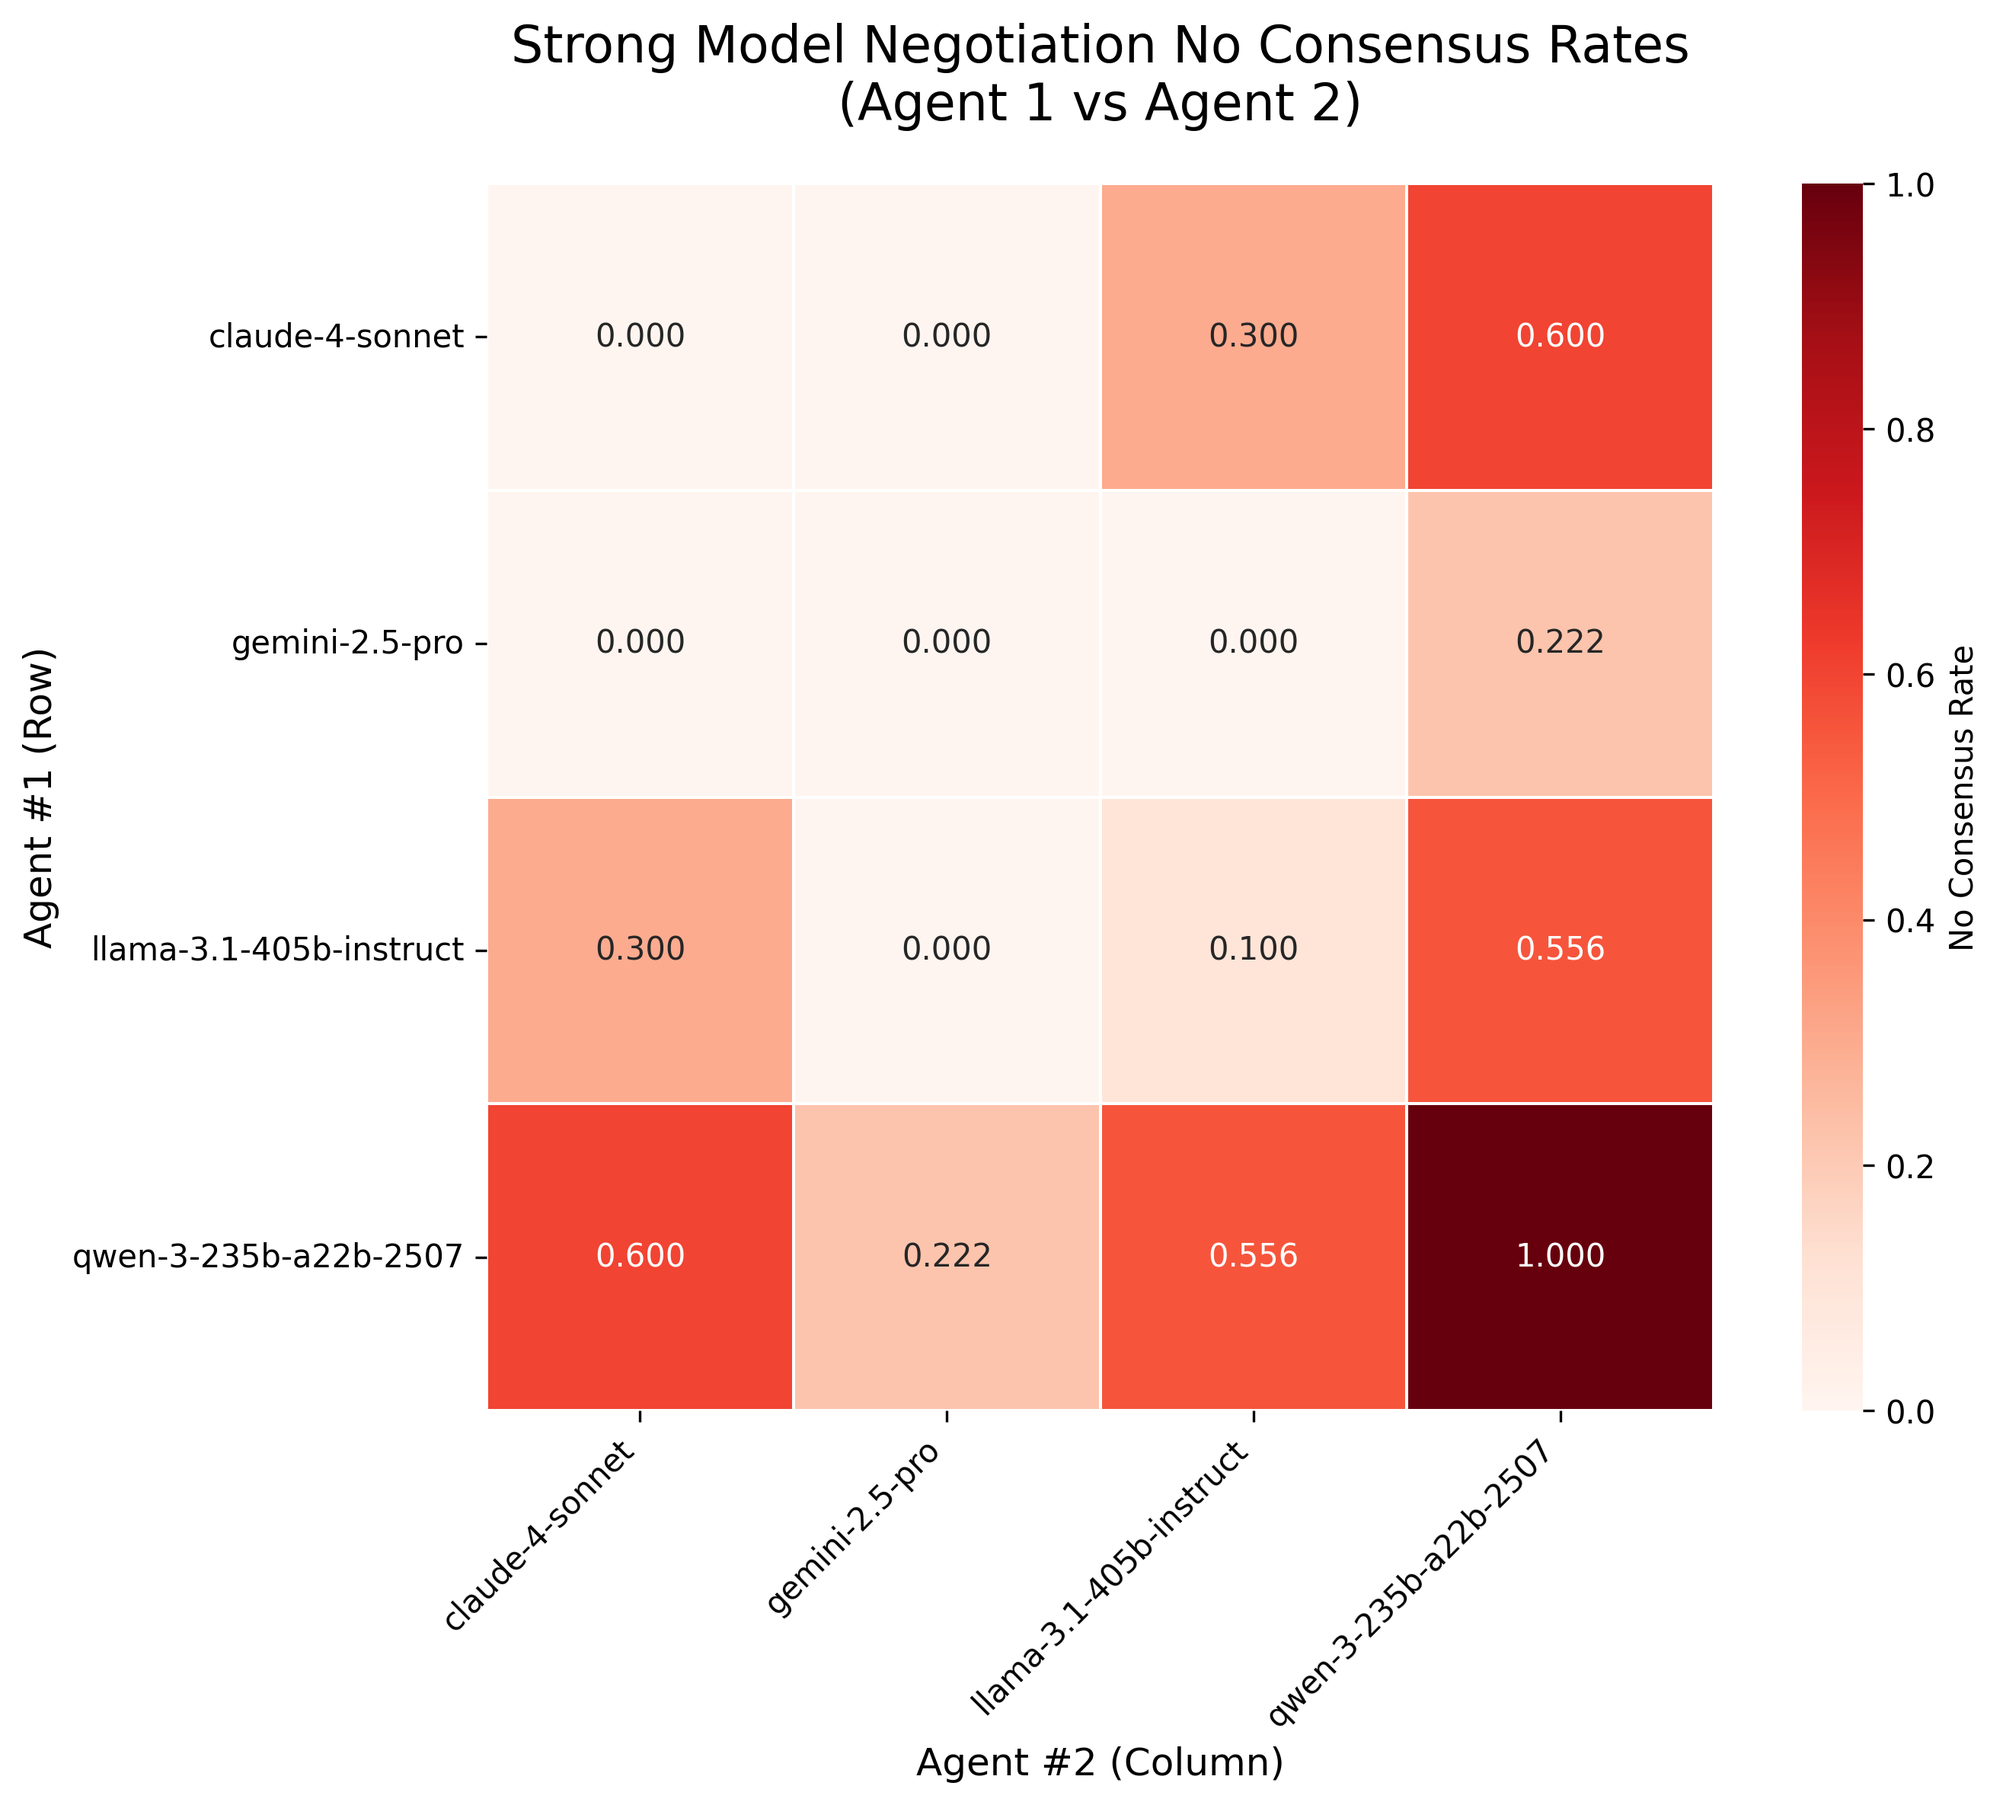
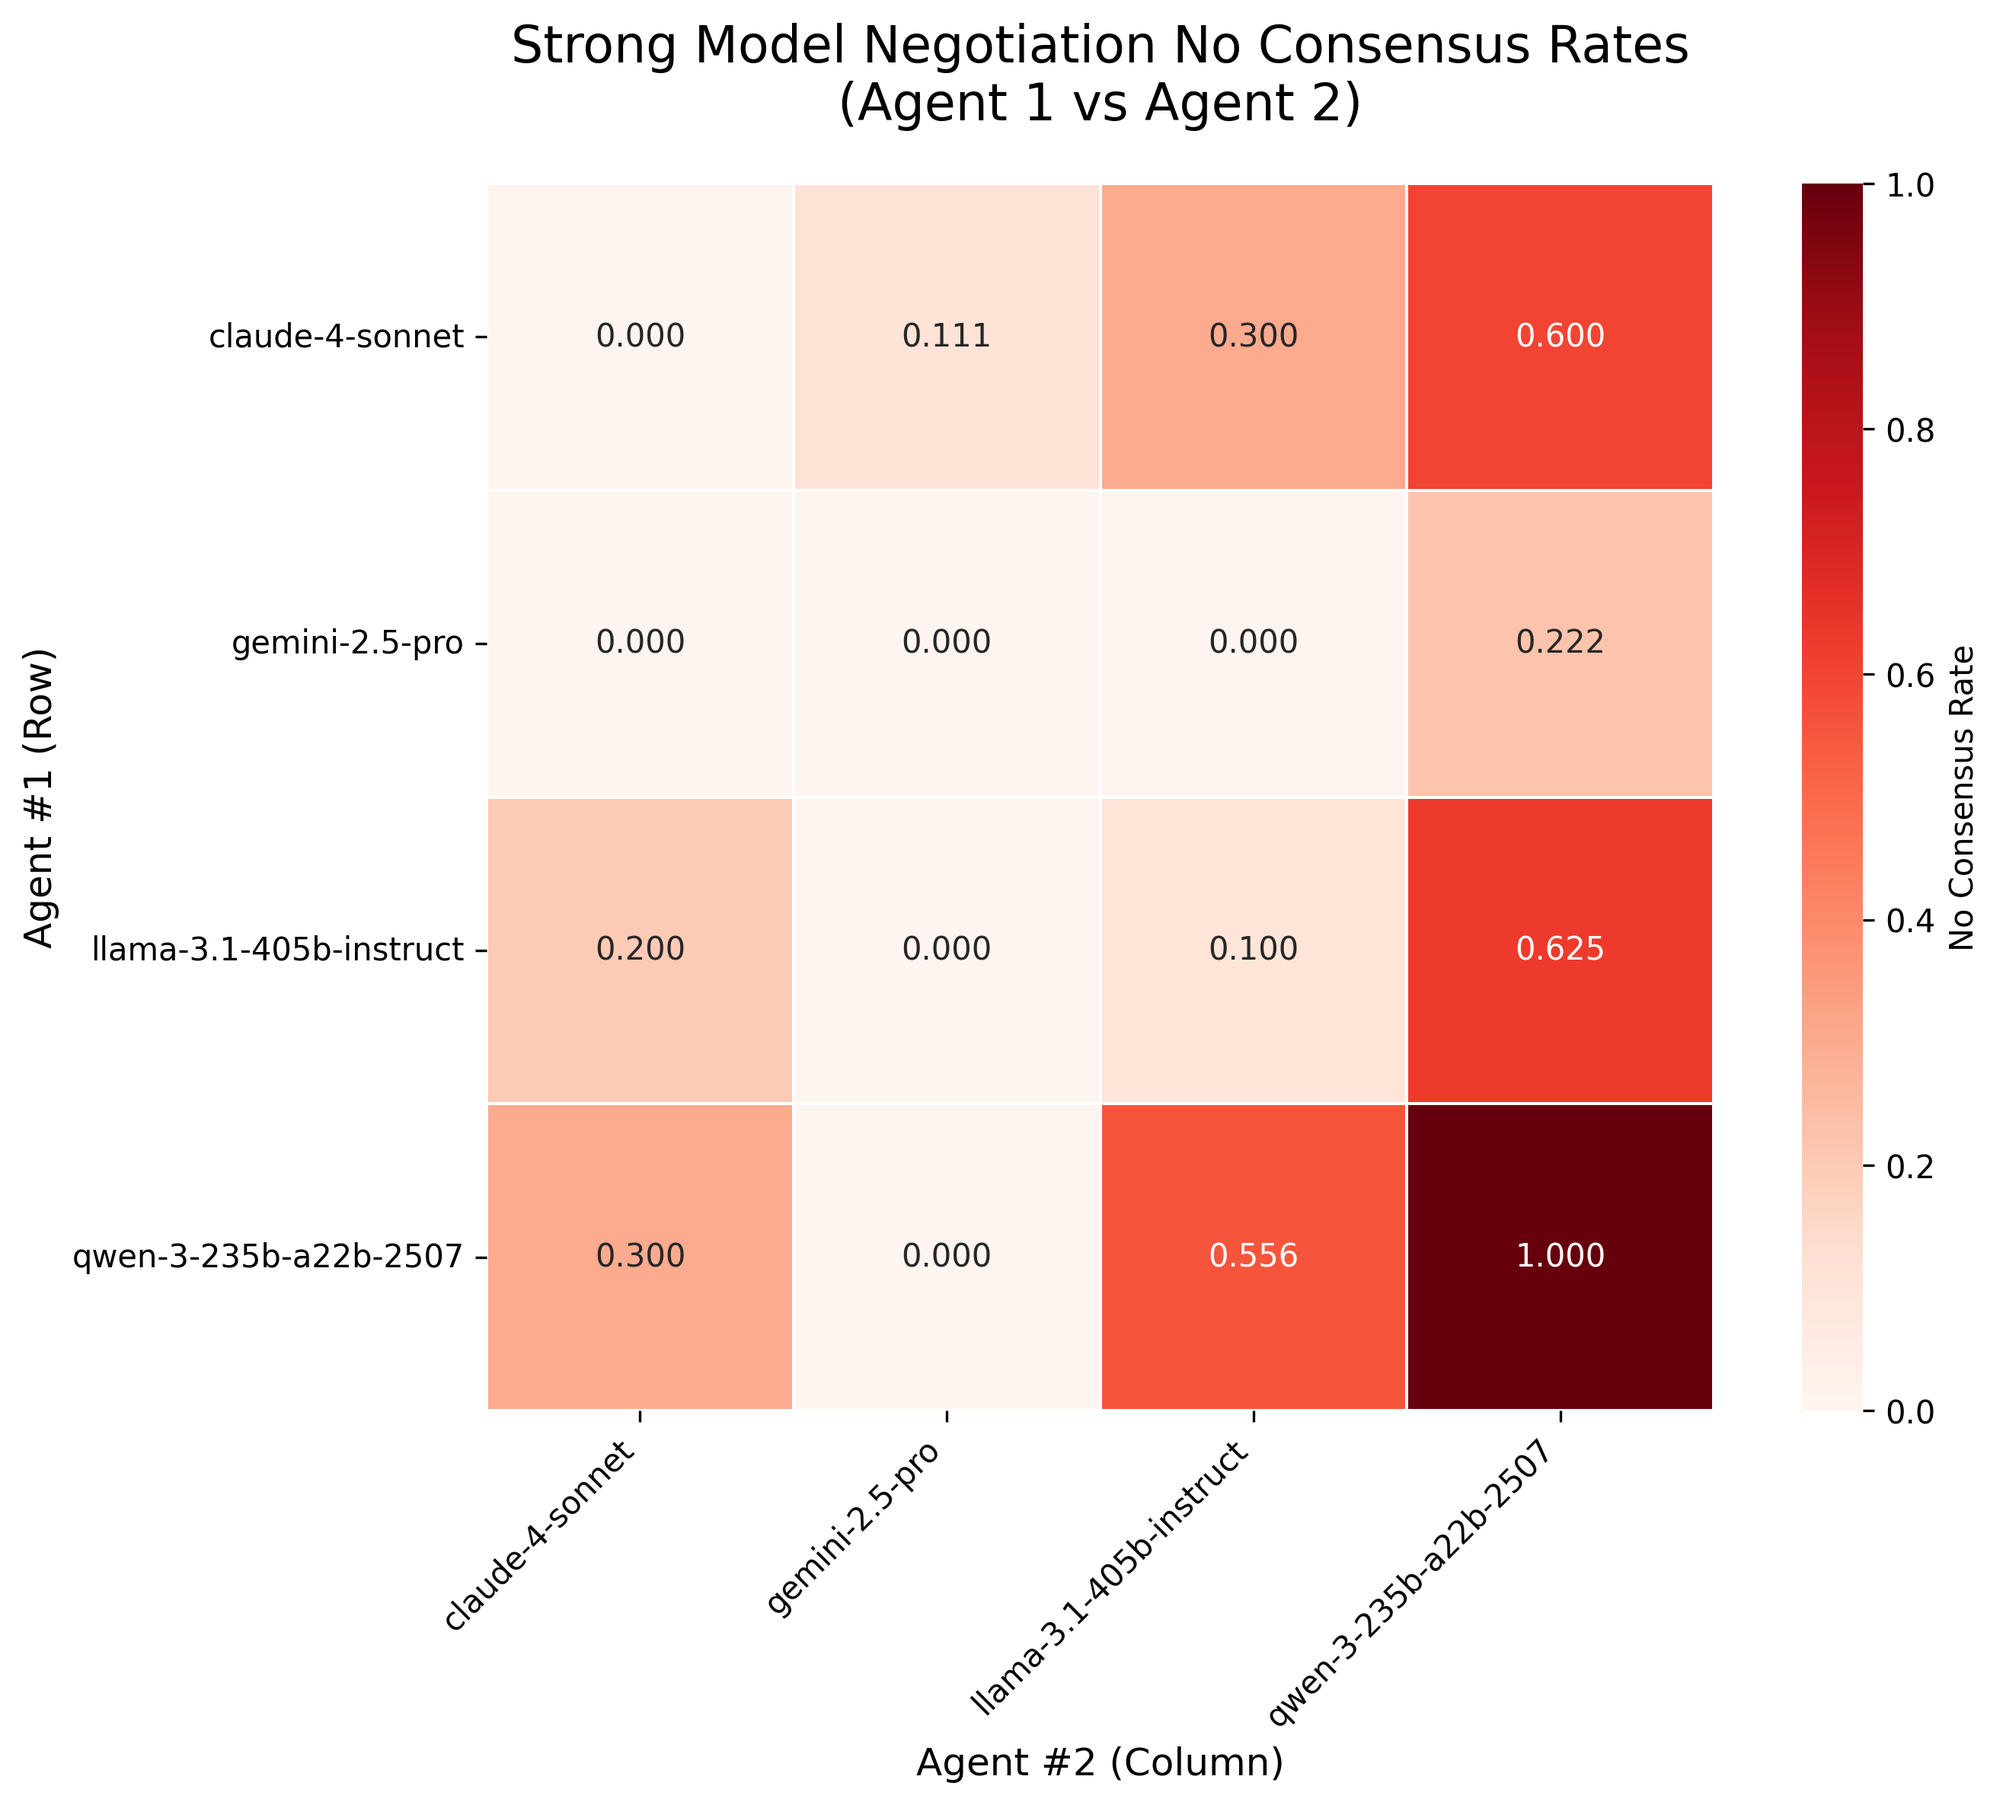
heatmap plots for poster

Changed region(s): [[0.2183, 0.4371, 0.5612, 0.7806], [0.6859, 0.4371, 0.873, 0.6245], [0.3741, 0.0937, 0.5612, 0.281]]

diff --git a/create_win_rate_heatmap.py b/create_win_rate_heatmap.py
@@ -190,16 +190,14 @@ def create_win_rate_matrix(win_rate_data):
     for model in model_names:
         matrix.loc[model, model] = 0.5
     
-    # Fill matrix with win rates (now showing agent2's win rate)
+    # Fill matrix with win rates (NO symmetric filling - proposal order matters!)
     for data in win_rate_data:
         row_model = data['agent1_model']
         col_model = data['agent2_model']
-        win_rate = data['agent2_win_rate']  # Changed to show agent2's win rate
+        win_rate = data['agent2_win_rate']  # Showing agent2's win rate
         
         if row_model in model_names and col_model in model_names:
             matrix.loc[row_model, col_model] = win_rate
-            # Also fill the symmetric entry (agent1's win rate against agent2)
-            matrix.loc[col_model, row_model] = data['agent1_win_rate']
     
     return matrix
 

diff --git a/create_win_rate_heatmap_a2.py b/create_win_rate_heatmap_a2.py
@@ -190,16 +190,14 @@ def create_win_rate_matrix(win_rate_data):
     for model in model_names:
         matrix.loc[model, model] = 0.5
     
-    # Fill matrix with win rates (now showing agent2's win rate)
+    # Fill matrix with win rates (NO symmetric filling - proposal order matters!)
     for data in win_rate_data:
         row_model = data['agent1_model']
         col_model = data['agent2_model']
-        win_rate = data['agent2_win_rate']  # Changed to show agent2's win rate
+        win_rate = data['agent2_win_rate']  # Showing agent2's win rate
         
         if row_model in model_names and col_model in model_names:
             matrix.loc[row_model, col_model] = win_rate
-            # Also fill the symmetric entry (agent1's win rate against agent2)
-            matrix.loc[col_model, row_model] = data['agent1_win_rate']
     
     return matrix
 

diff --git a/create_no_consensus_heatmap.py b/create_no_consensus_heatmap.py
@@ -181,7 +181,7 @@ def create_no_consensus_matrix(no_consensus_data):
     for model in model_names:
         matrix.loc[model, model] = np.nan  # Will be filled if we have data
     
-    # Fill matrix with no consensus rates
+    # Fill matrix with no consensus rates (NO symmetric filling - proposal order matters!)
     for data in no_consensus_data:
         row_model = data['agent1_model']
         col_model = data['agent2_model']
@@ -189,8 +189,6 @@ def create_no_consensus_matrix(no_consensus_data):
         
         if row_model in model_names and col_model in model_names:
             matrix.loc[row_model, col_model] = no_consensus_rate
-            # Also fill the symmetric entry (should be the same rate)
-            matrix.loc[col_model, row_model] = no_consensus_rate
     
     return matrix
 

diff --git a/create_win_rate_heatmap_a1.py b/create_win_rate_heatmap_a1.py
@@ -190,7 +190,7 @@ def create_win_rate_matrix(win_rate_data):
     for model in model_names:
         matrix.loc[model, model] = 0.5
     
-    # Fill matrix with win rates
+    # Fill matrix with win rates (NO symmetric filling - proposal order matters!)
     for data in win_rate_data:
         row_model = data['agent1_model']
         col_model = data['agent2_model']
@@ -198,8 +198,6 @@ def create_win_rate_matrix(win_rate_data):
         
         if row_model in model_names and col_model in model_names:
             matrix.loc[row_model, col_model] = win_rate
-            # Also fill the symmetric entry (agent2's win rate against agent1)
-            matrix.loc[col_model, row_model] = data['agent2_win_rate']
     
     return matrix
 
